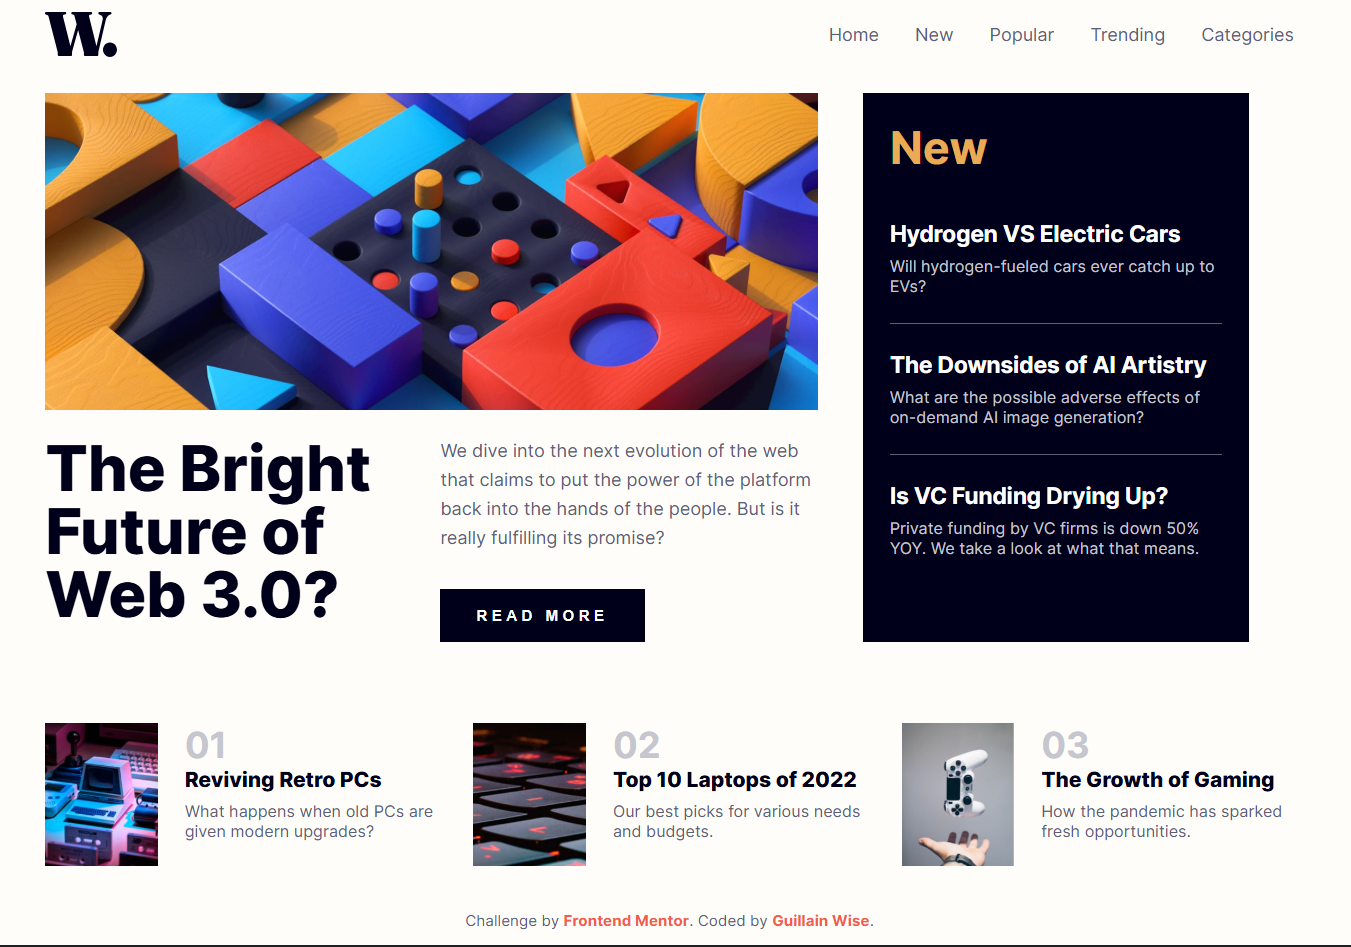
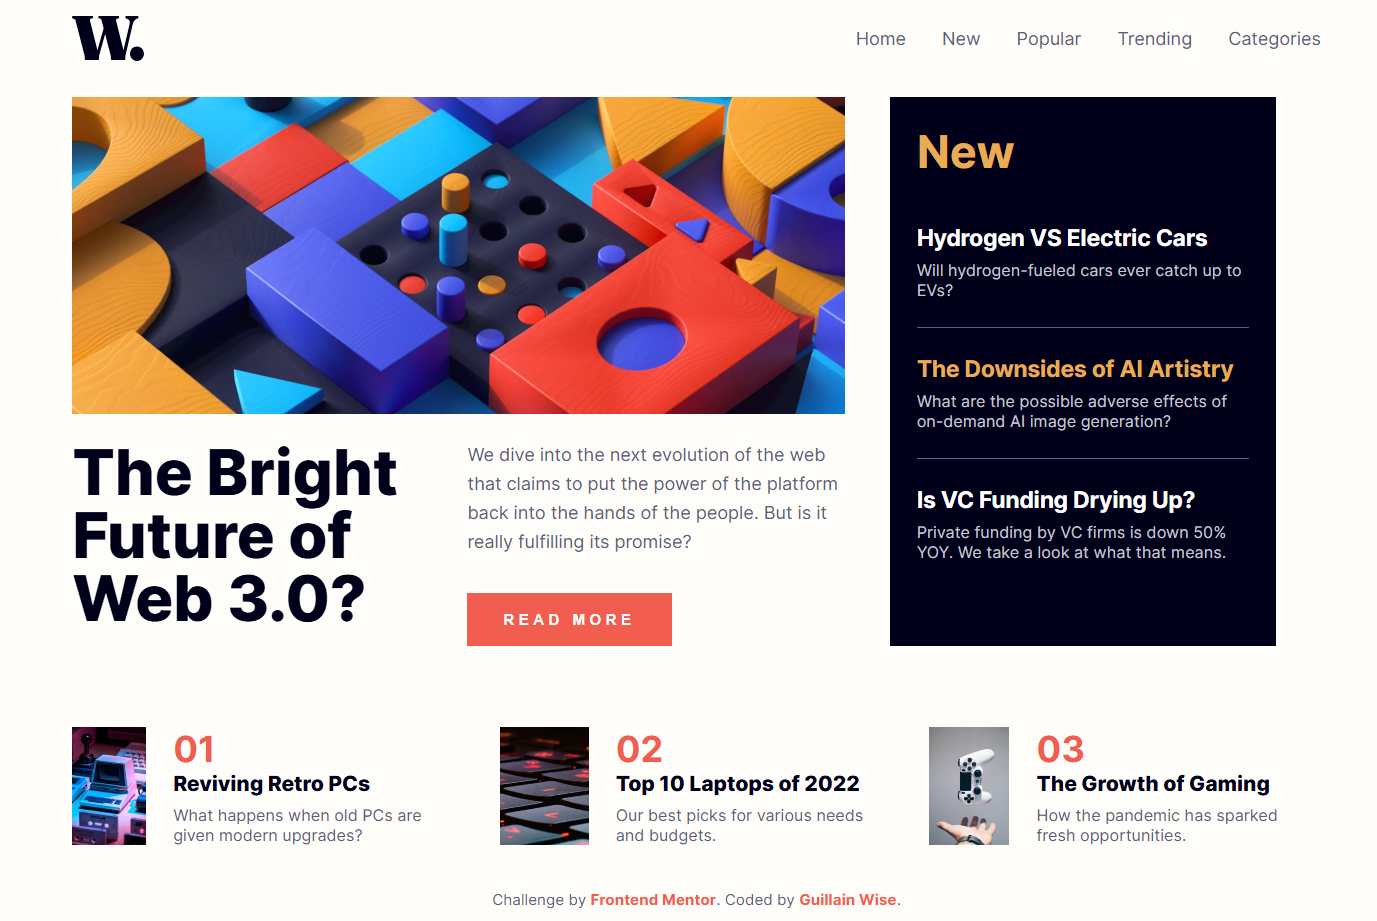
#2 : edditing my CSS

diff --git a/css/style.css b/css/style.css
@@ -179,7 +179,7 @@ body {
 }
 
 .list-content span {
-    color: var(--grayish-blue);
+    color: var(--soft-red);
     font-size: 2rem;
     font-weight: 700;
 }
